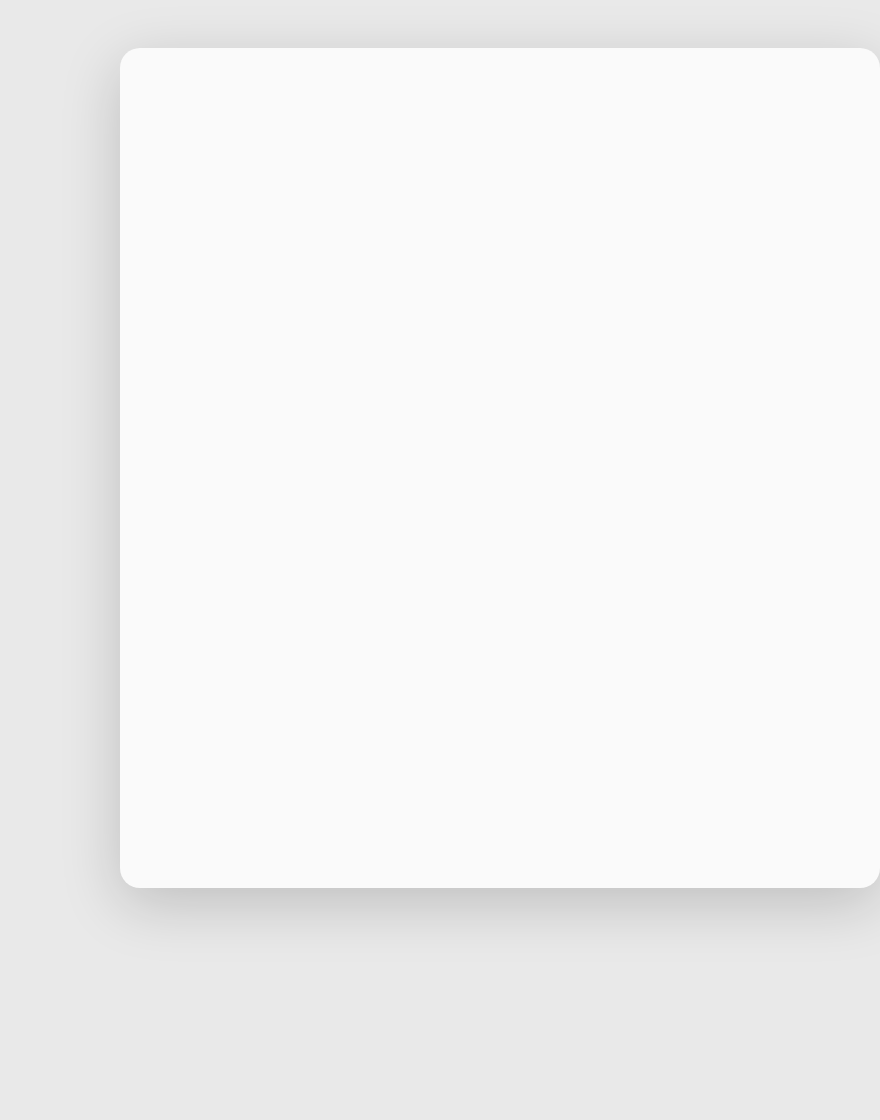
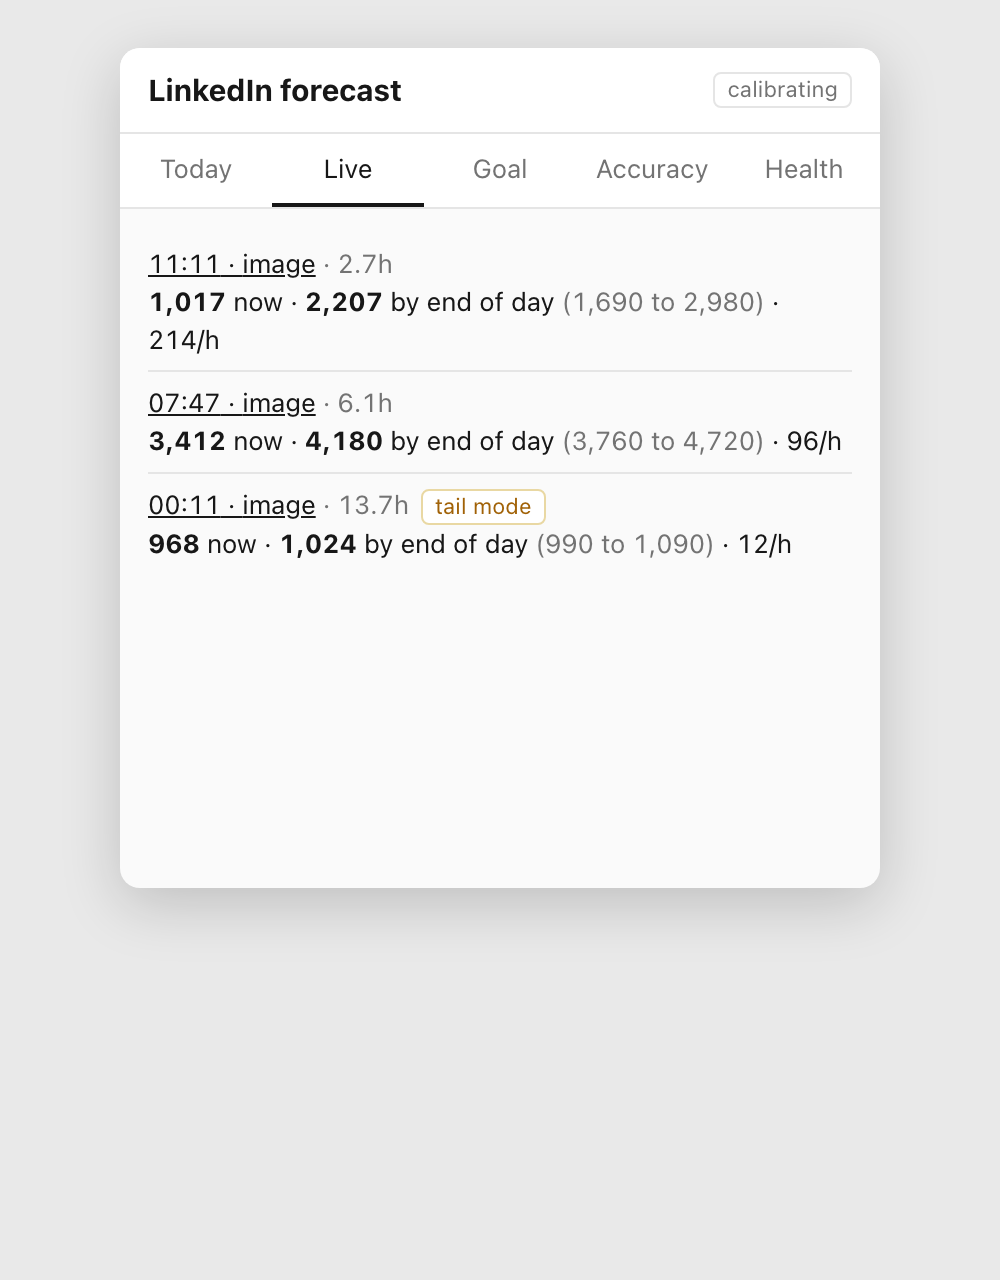
Popup opens on the tab named in the URL hash; popup screenshot works from file://

diff --git a/src/ui/popup/main.tsx b/src/ui/popup/main.tsx
@@ -22,7 +22,8 @@ const REGIME_TIP: Record<string, string> = {
 
 function App() {
   const [s, setS] = useState<State | null>(null);
-  const [tab, setTab] = useState<'today' | 'live' | 'goal' | 'accuracy' | 'health'>('today');
+  const initial = (location.hash.slice(1) || 'today') as 'today' | 'live' | 'goal' | 'accuracy' | 'health';
+  const [tab, setTab] = useState<'today' | 'live' | 'goal' | 'accuracy' | 'health'>(['today', 'live', 'goal', 'accuracy', 'health'].includes(initial) ? initial : 'today');
   const [err, setErr] = useState('');
   const load = () => rpc<State>({ type: 'ui:getState' }).then(setS).catch(e => setErr(String(e)));
   useEffect(() => { load(); const t = setInterval(load, 20000); return () => clearInterval(t); }, []);
